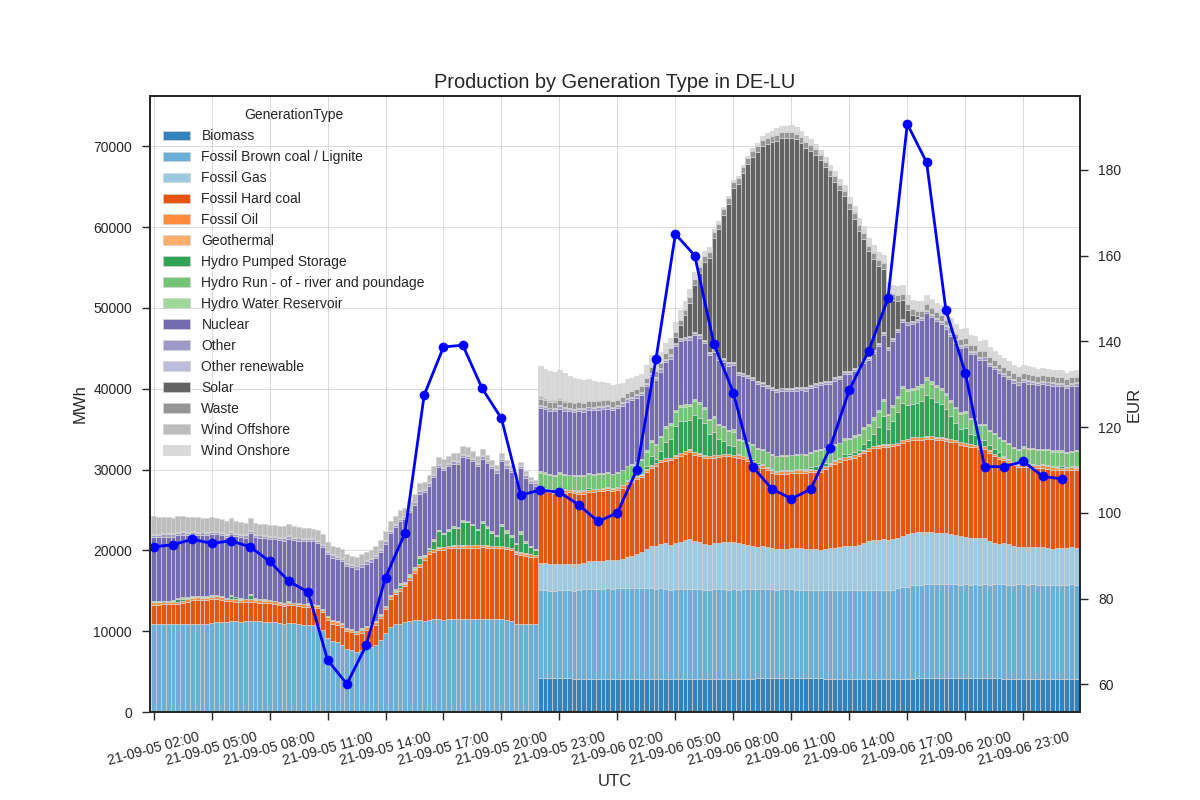
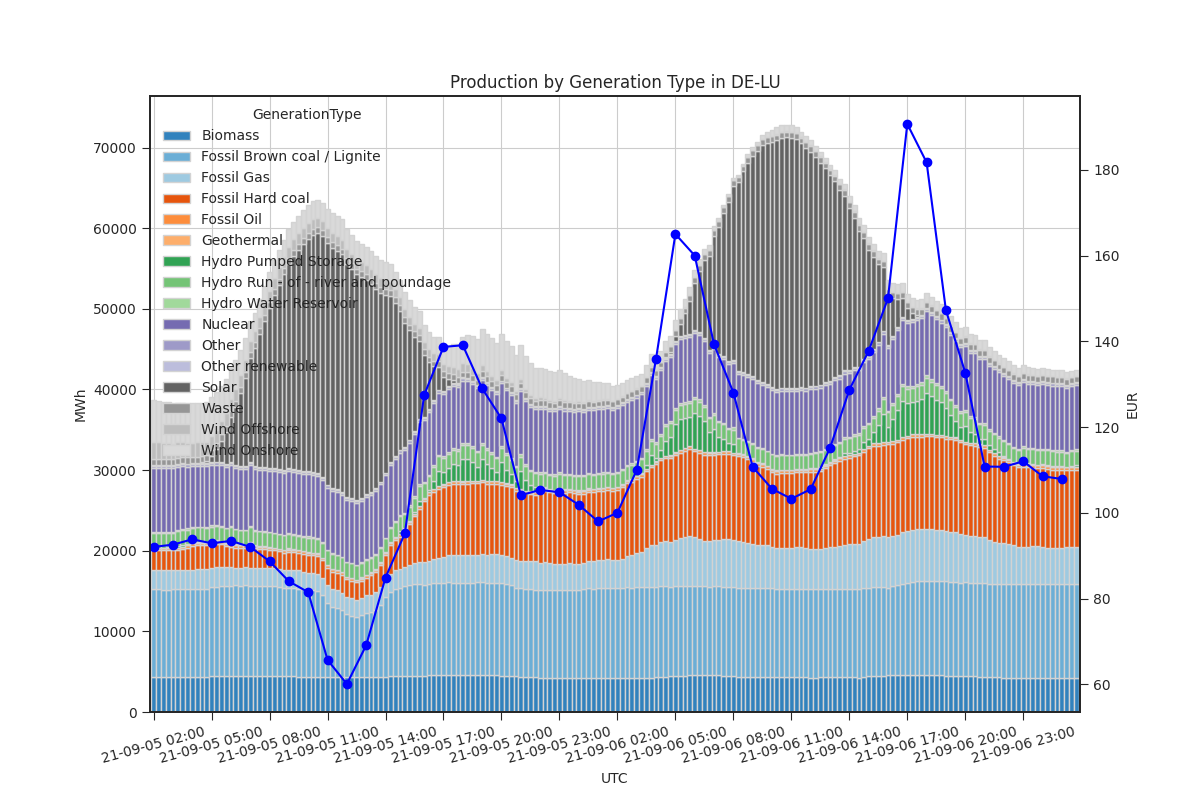
fix: sample_plot.py

diff --git a/sample_plot.py b/sample_plot.py
@@ -24,6 +24,8 @@ import pandas as pd
 from entsoe_client import ParameterTypes
 
 df["quantity"] = df["quantity"].astype(float)
+resolution = "PT60M"
+px = px.query("`Period.resolution`==@resolution")
 px["price.amount"] = px["price.amount"].astype(float)
 
 consumption_mask = df["TimeSeries.outBiddingZone_Domain.mRID"].notna()
@@ -71,7 +73,8 @@ ax.xaxis.set_ticks(ticks[::each_n_label])
 ax.xaxis.set_ticklabels(ticklabels[::each_n_label])
 
 ## Plot prices on top of primary plot.
-_px = px.loc[production_by_type.index[production_by_type.index.isin(px.index)]]
+_px = px.loc[px.index.intersection(production_by_type.index)]
+
 ax2 = ax.twinx()
 ax2.plot(ticks[::4], _px["price.amount"], color="blue", marker="o")
 ax2.set_ylabel("EUR")
